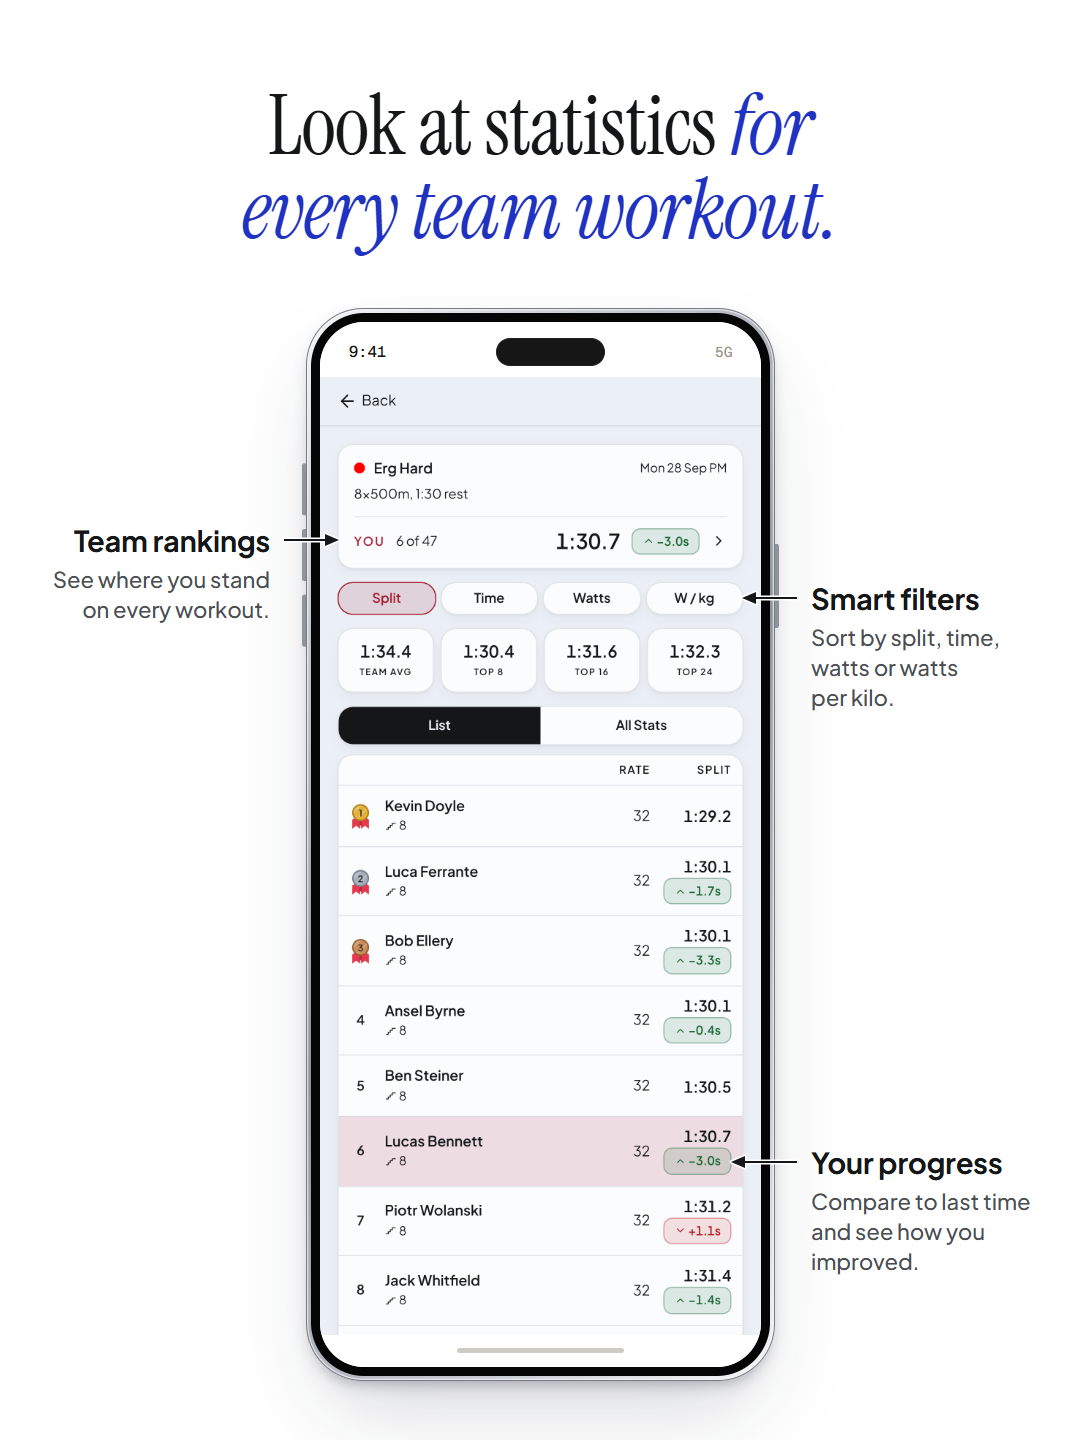
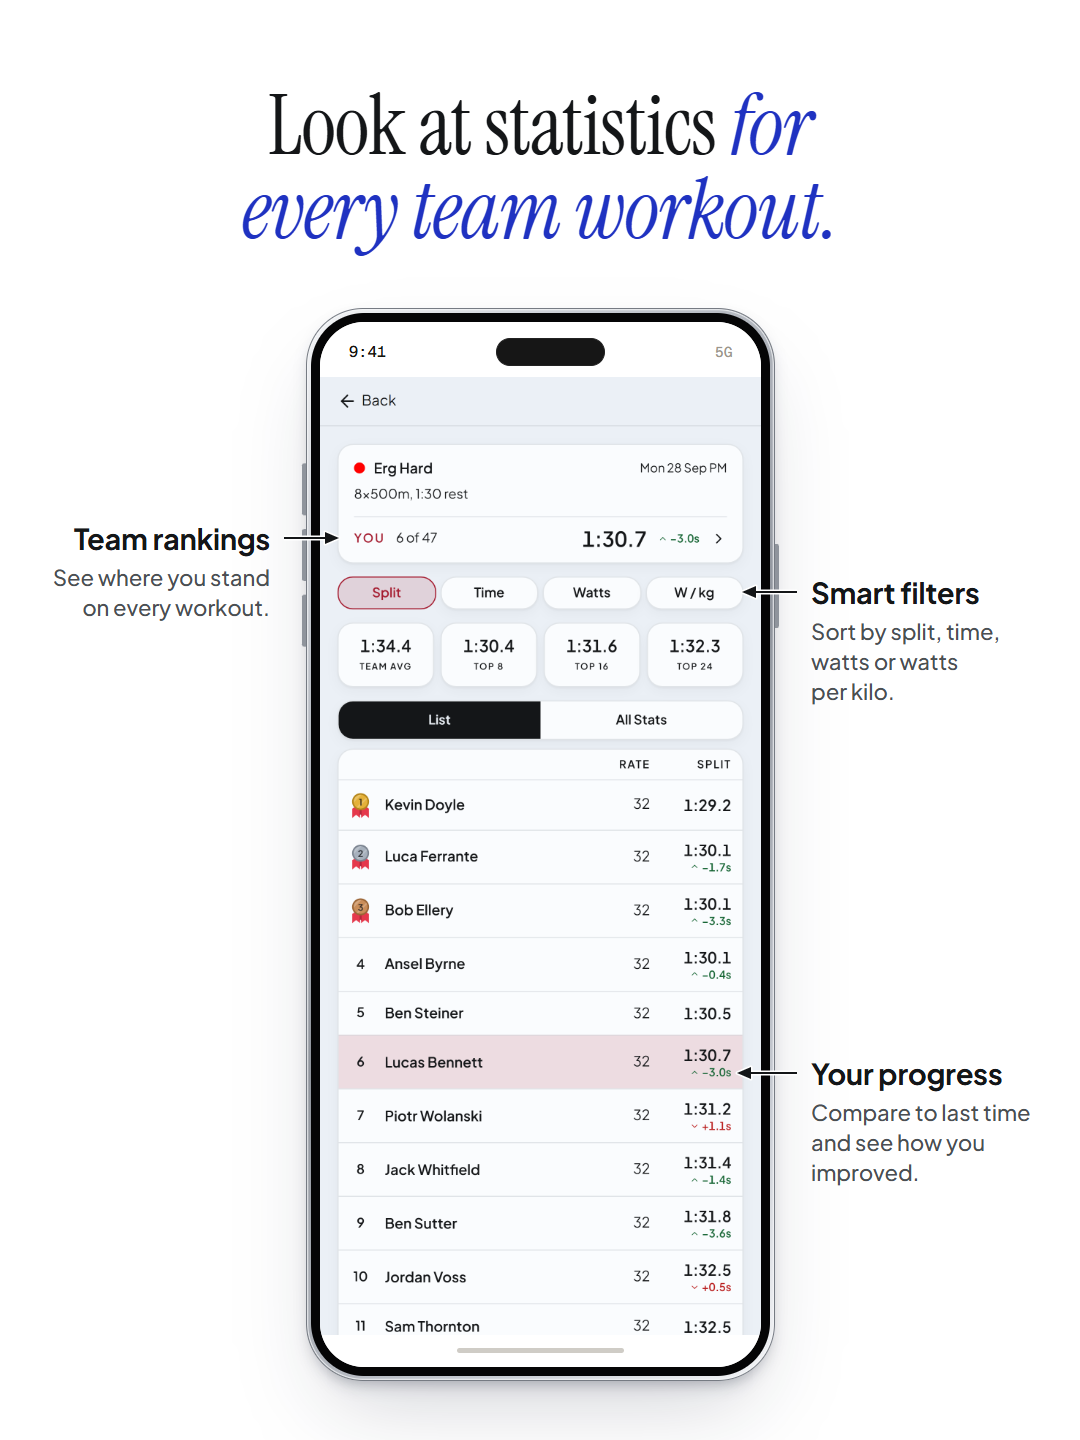
social: Varsity post slide 4 reshot with the new board rows
The board on slide 4 now shows the app as it is: the name, the rate and
the split on each row, the improvement as small green or red words,
no Example tag. The arrows were re-measured on the new shot. The shoot
recipe no longer hides the tag, since the app does not draw it.

diff --git a/scripts/social/varsity-shoot/README.md b/scripts/social/varsity-shoot/README.md
@@ -44,8 +44,9 @@ Martin Houska stays himself.
 What changed since September, so the next reshoot starts from here:
 
 - `copy-edits.patch` was made again from the copy. Besides the crest letter, the school
-  name and the two Supabase clients, it now hides the "Example" tag (NO-SLOP 8) and
-  marks Lucas Bennett's row as yours on the example boards (`lib/varsity/teamBoard.ts`).
+  name and the two Supabase clients, it marks Lucas Bennett's row as yours on the
+  made-up boards (`lib/varsity/teamBoard.ts`). The app itself no longer writes
+  "Example" on them (45420ae).
 - The athlete is **Lucas Bennett**, not Martin Houska (NO-SLOP 22): `fake-roster.mjs`
   maps the seat, and `full-names.mjs` (run after it, in the copy) adds every full
   name and a surname list to `shootMap.json`, so result rows written as "Samuel
